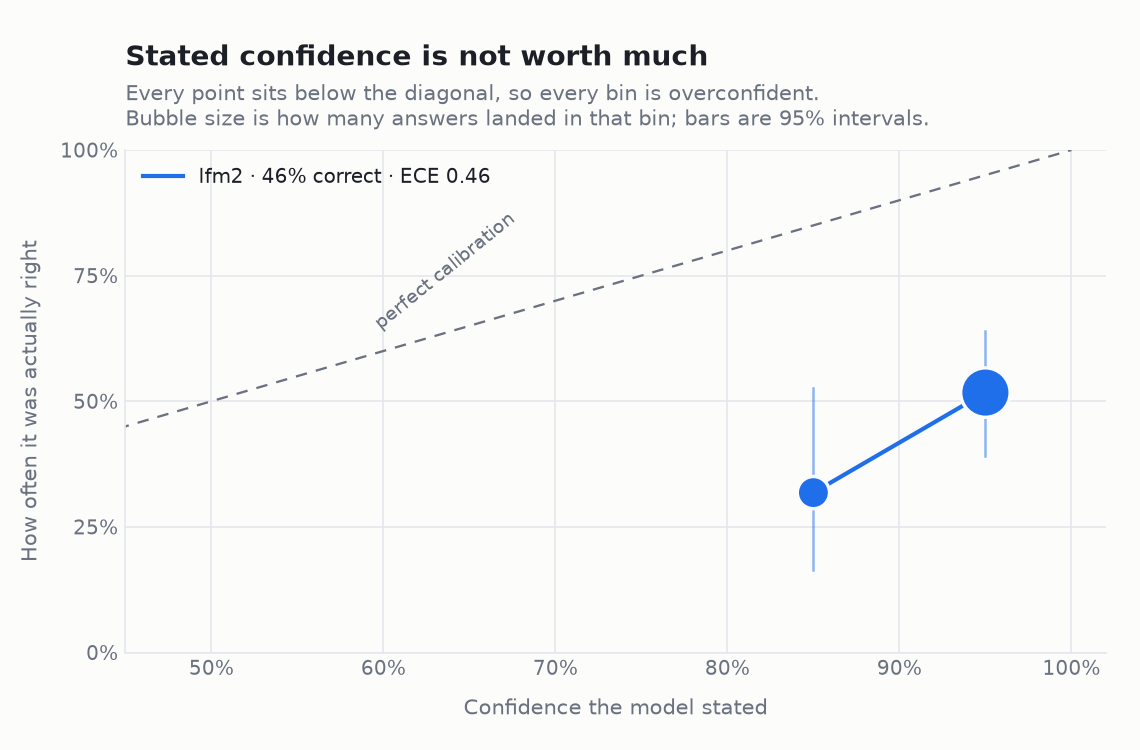
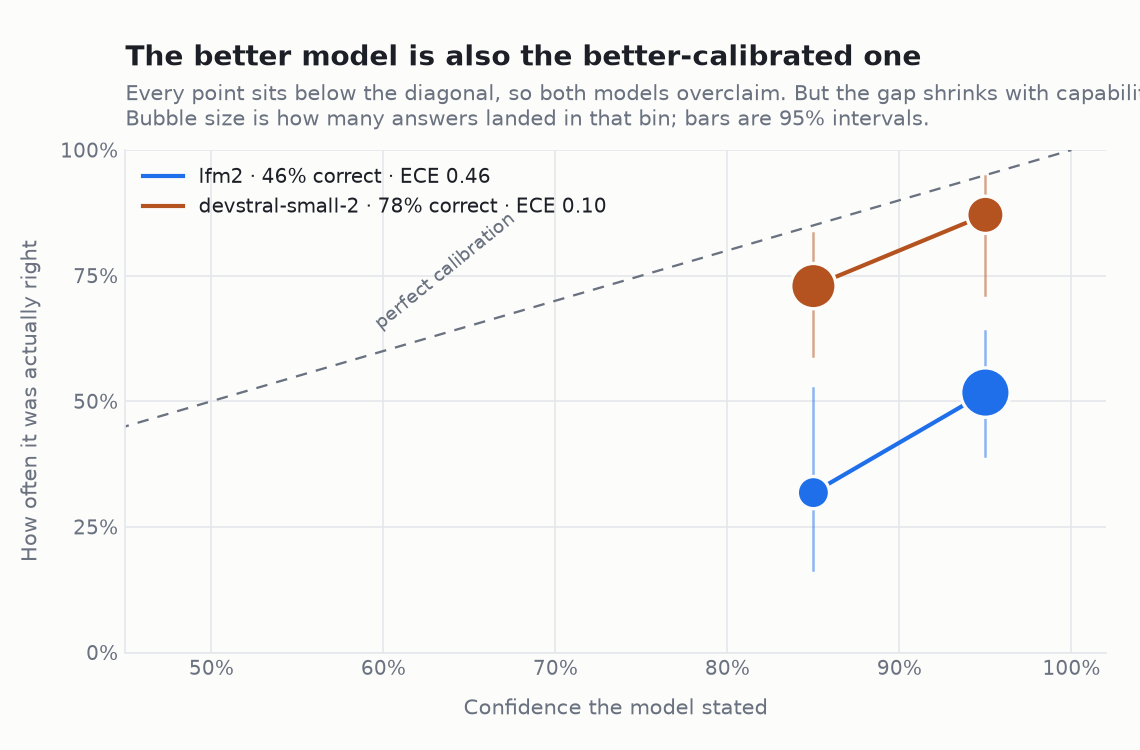
Both models swept: calibration tracks capability, neither model admits doubt
devstral-small-2 scores 78.8% [68.6, 86.3] against lfm2's 46.2% [35.7, 57.1],
and is better calibrated by a factor of four on ECE (0.104 against 0.460). The
intervals do not overlap, so the accuracy gap is real.

The finding worth the write-up is one I was not looking for. Across 159 answers
the lowest confidence either model ever stated was 80. Neither said 50, or 40,
or that it did not know. lfm2 used five distinct values, devstral used two. A
scale used only between 80 and 95 is not measuring confidence.

Counterintuitively the better model uses the coarser vocabulary, so expressive
range and calibration are not the same axis.

Both remain ordinally informative: 95 beats 85 in each. They know which answers
are better and cannot say so numerically.

Skew stays unreported for both. Intervals run 25-35 points wide and nothing
separates.

Flagged loudly in the log and the draft: devstral's 78.8% must NOT be quoted as
a capability result. These questions were written so reasoning beats recall, and
four in five on widely-published statistics is exactly what memorisation looks
like. That is the argument for checkpoint 3, not evidence against it.

diff --git a/plot_calibration.py b/plot_calibration.py
@@ -94,12 +94,13 @@ def main():
     for t in leg.get_texts():
         t.set_color(INK)
 
-    ax.text(0.0, 1.155, "Stated confidence is not worth much",
+    ax.text(0.0, 1.155, "The better model is also the better-calibrated one",
             transform=ax.transAxes, color=INK, fontsize=13.5, fontweight="bold",
             va="bottom", ha="left")
     ax.text(0.0, 1.035,
-            "Every point sits below the diagonal, so every bin is overconfident.\n"
-            "Bubble size is how many answers landed in that bin; bars are 95% intervals.",
+            "Every point sits below the diagonal, so both models overclaim. But the gap "
+            "shrinks with capability.\nBubble size is how many answers landed in that bin; "
+            "bars are 95% intervals.",
             transform=ax.transAxes, color=MUTED, fontsize=10, va="bottom", ha="left")
 
     fig.subplots_adjust(top=0.80, left=0.11, right=0.97, bottom=0.13)

diff --git a/LOG.md b/LOG.md
@@ -6,6 +6,72 @@ interesting ones**; a log that only contains wins is a marketing document.
 
 ---
 
+## 2026-09-08 — both models: calibration tracks capability, and neither model
+## ever admits doubt
+
+**What.** Full 80 items on both local models. 80/80 parsed for lfm2, 80/80 for
+devstral-small-2 (one answer carried no confidence).
+
+| | lfm2 | devstral-small-2 |
+|---|---|---|
+| accuracy | 46.2% [35.7, 57.1] | **78.8% [68.6, 86.3]** |
+| chance | 26.8% | 26.8% |
+| ECE | 0.460 | **0.104** |
+| stated 85 → right | 32% | 73% |
+| stated 95 → right | 52% | 87% |
+
+**Finding 1: calibration tracks capability.** The more accurate model is also
+the far better calibrated one, by a factor of four on ECE. Both still sit below
+the diagonal, so both overclaim, but the gap shrinks sharply with capability.
+That is a cleaner statement than "models are overconfident" and it is the
+headline of the run.
+
+**Finding 2, and the more interesting one: neither model ever expresses real
+uncertainty.** Across **159 answers the lowest confidence either model ever
+stated was 80.** Not once did either say 40, or 60, or "I don't know". lfm2 used
+five distinct values (80, 85, 90, 95, 99); devstral used **two** (85, 95).
+
+That reframes the problem. The confidence channel is not badly calibrated so
+much as **barely used**: both models operate in the top fifth of the scale and
+never touch the rest of it. A model at 46% accuracy that never says it is less
+than 80% sure is not making a calibration error, it is declining to represent
+doubt at all.
+
+Note the counterintuitive detail: the *better* model uses the *coarser*
+vocabulary. Two values, better calibrated. So expressive range and calibration
+are not the same axis.
+
+**Finding 3: confidence is ordinally informative in both.** 95 beats 85 in both
+models (52 vs 32, and 87 vs 73). They do know which of their answers are better.
+They cannot say so on a 0–100 scale, and they never use the low end.
+
+**Skew: still unmeasured, in both.** devstral runs Right 77.4%, Left 75.0%,
+Secular 75.0%, with intervals 25–35 points wide. Nothing separable.
+**Do not report a skew result from 80 items.**
+
+⚠ **A prediction of mine was wrong.** The 2026-09-07 entry guessed, from three
+items all reading 85, that confidence might be constant. Across 80 it is not.
+The three-item sample could not see it — the exact error the scorer is built to
+refuse, made by me rather than by the scorer.
+
+🔴 **The result that most needs interrogating: devstral scoring 78.8%.** These
+questions were written so reasoning beats recall, and a 15GB model getting four
+in five on contested public statistics is exactly what memorisation would look
+like. **This is not evidence of a world model until the memorisation probe runs.**
+It is the strongest argument yet for checkpoint 3, and the number should not be
+quoted as a capability result before then.
+
+**Chart.** `results/calibration.png`, both models.
+
+**Next.** Interval elicitation on the 50 numeric items. The motivation is now
+sharper than "try another channel": the models never use the low end of a
+percentage scale, so the question is whether an interval is a format in which
+they *can* express doubt. If interval widths also collapse to near-zero, the
+finding is about the models' unwillingness to represent uncertainty in any
+format, which is a bigger claim than a calibration number.
+
+---
+
 ## 2026-09-08 — full sweep, lfm2: real signal, badly miscalibrated
 
 **What.** All 80 items, one model, multiple choice with stated confidence.
